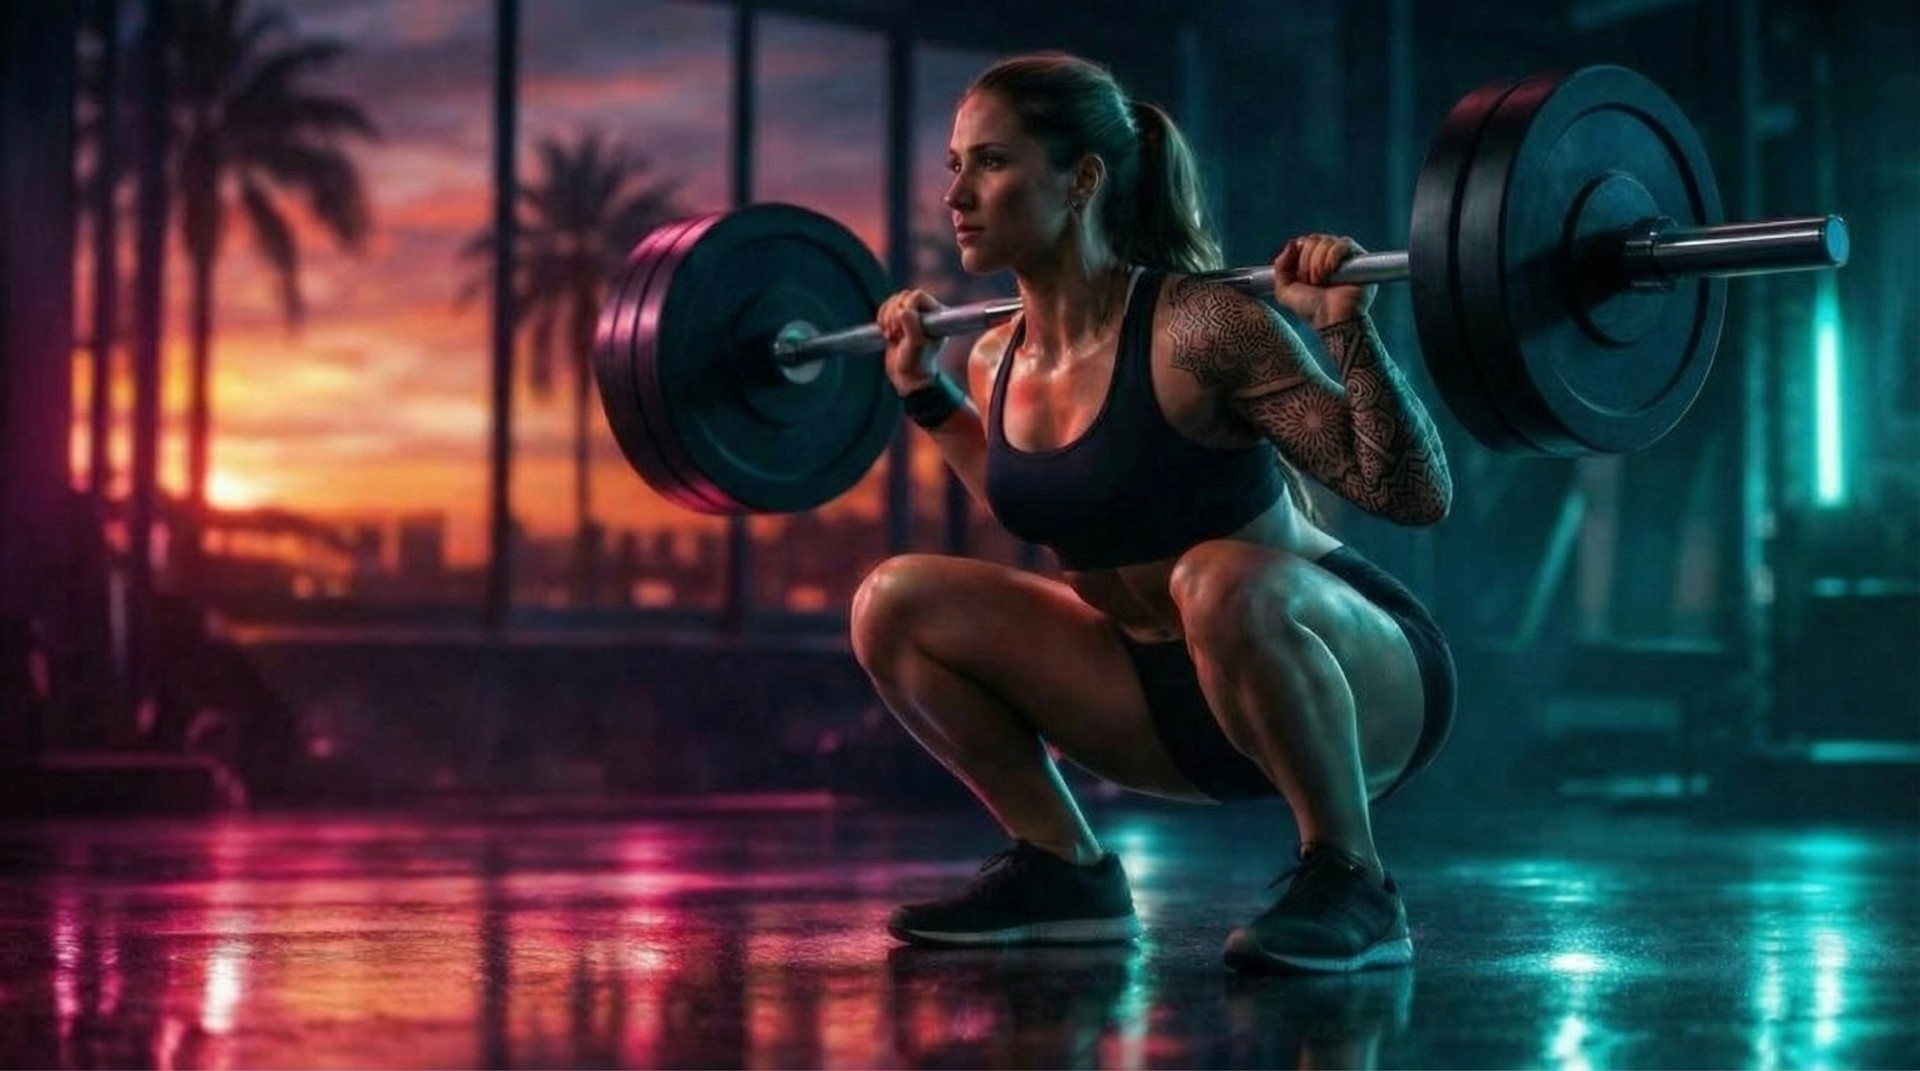
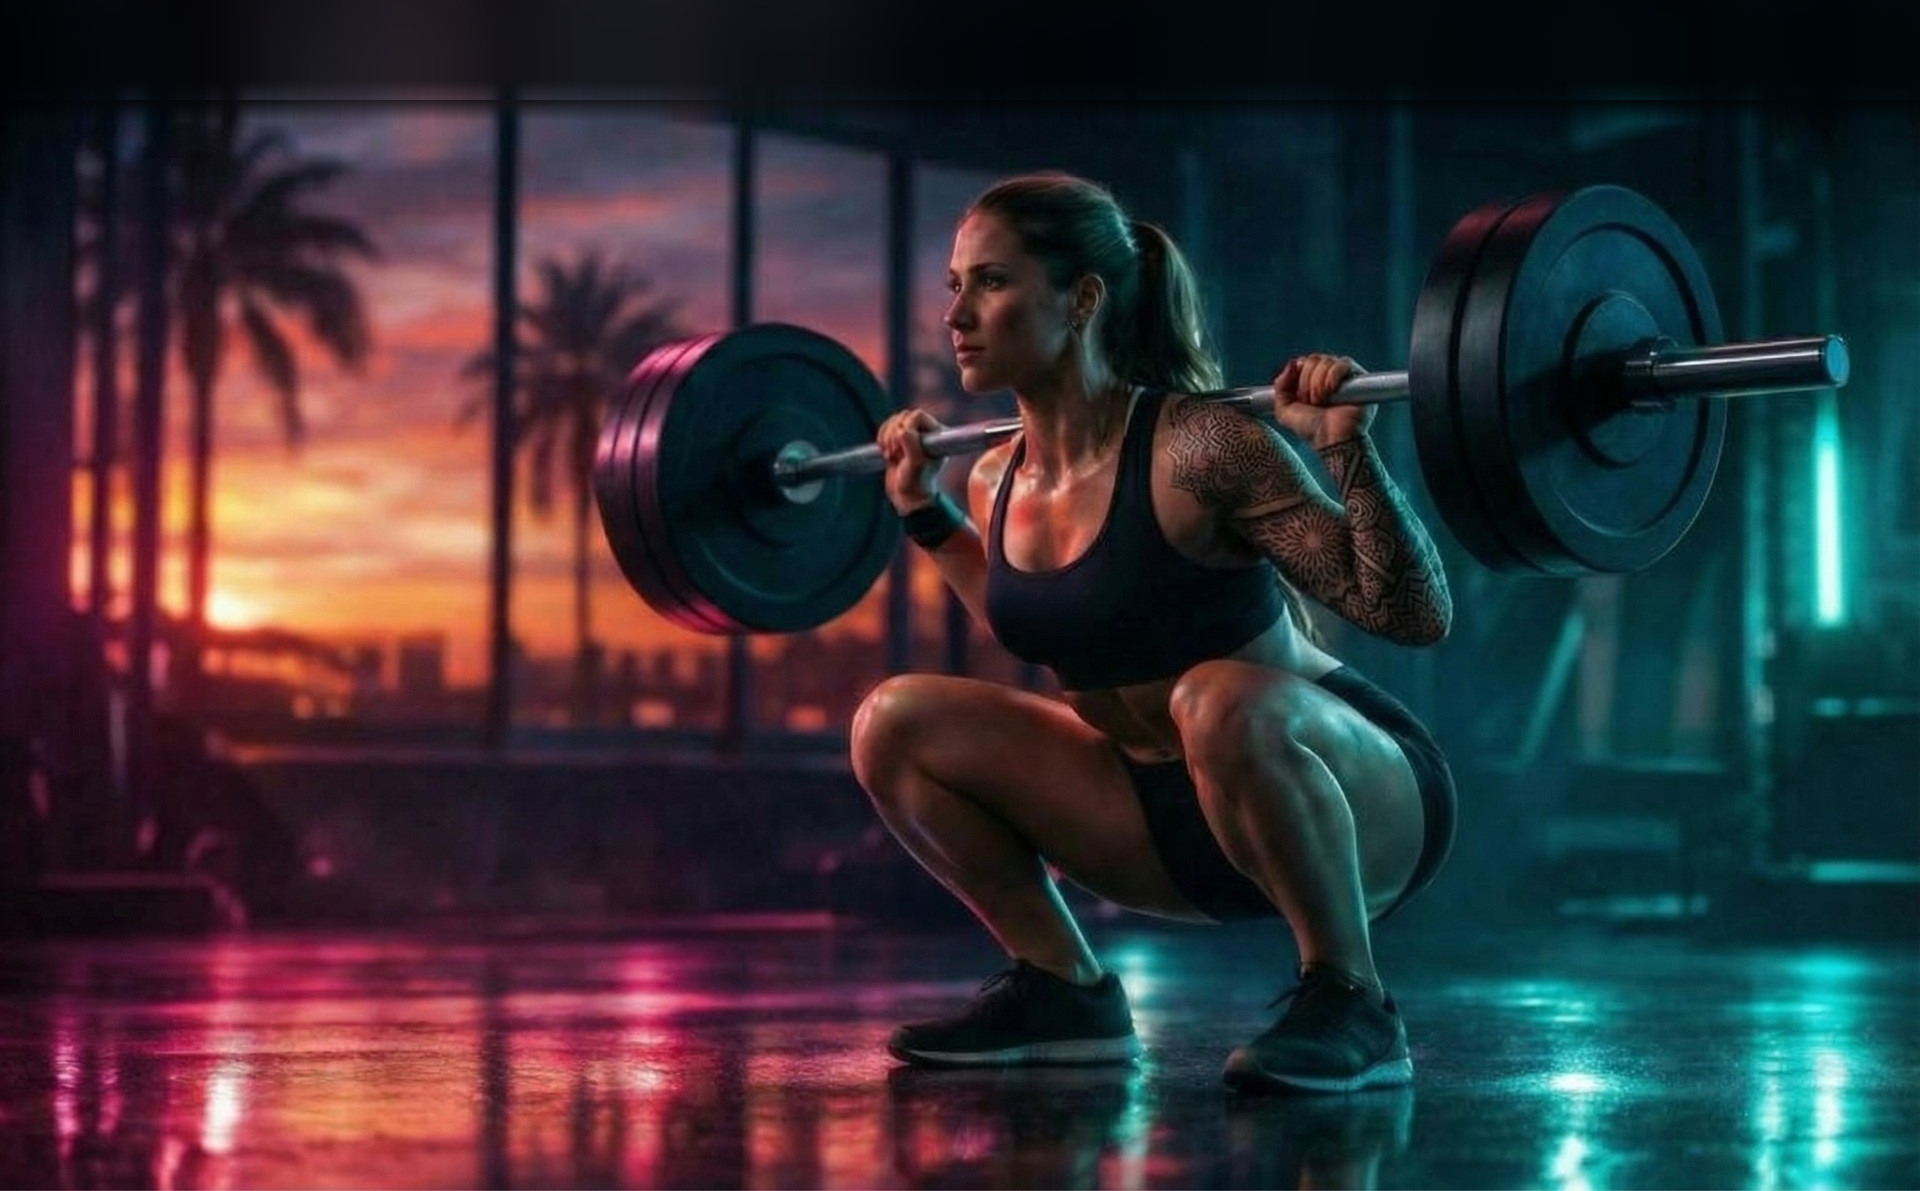
Extend hero image with dark headroom above athlete - full head + hairline visible below nav

diff --git a/index.html b/index.html
@@ -134,7 +134,7 @@
   <div class="hero-bg">
     <picture>
       <source media="(min-width: 769px)" srcset="assets/hero-desktop.png" type="image/png">
-      <img src="assets/hero-desktop.png" alt="Yeager's Gym — Data-Driven Strength Coaching" loading="eager" width="1920" height="1071">
+      <img src="assets/hero-desktop.png" alt="Yeager's Gym — Data-Driven Strength Coaching" loading="eager" width="1920" height="1191">
     </picture>
   </div>
   <div class="hero-content">
